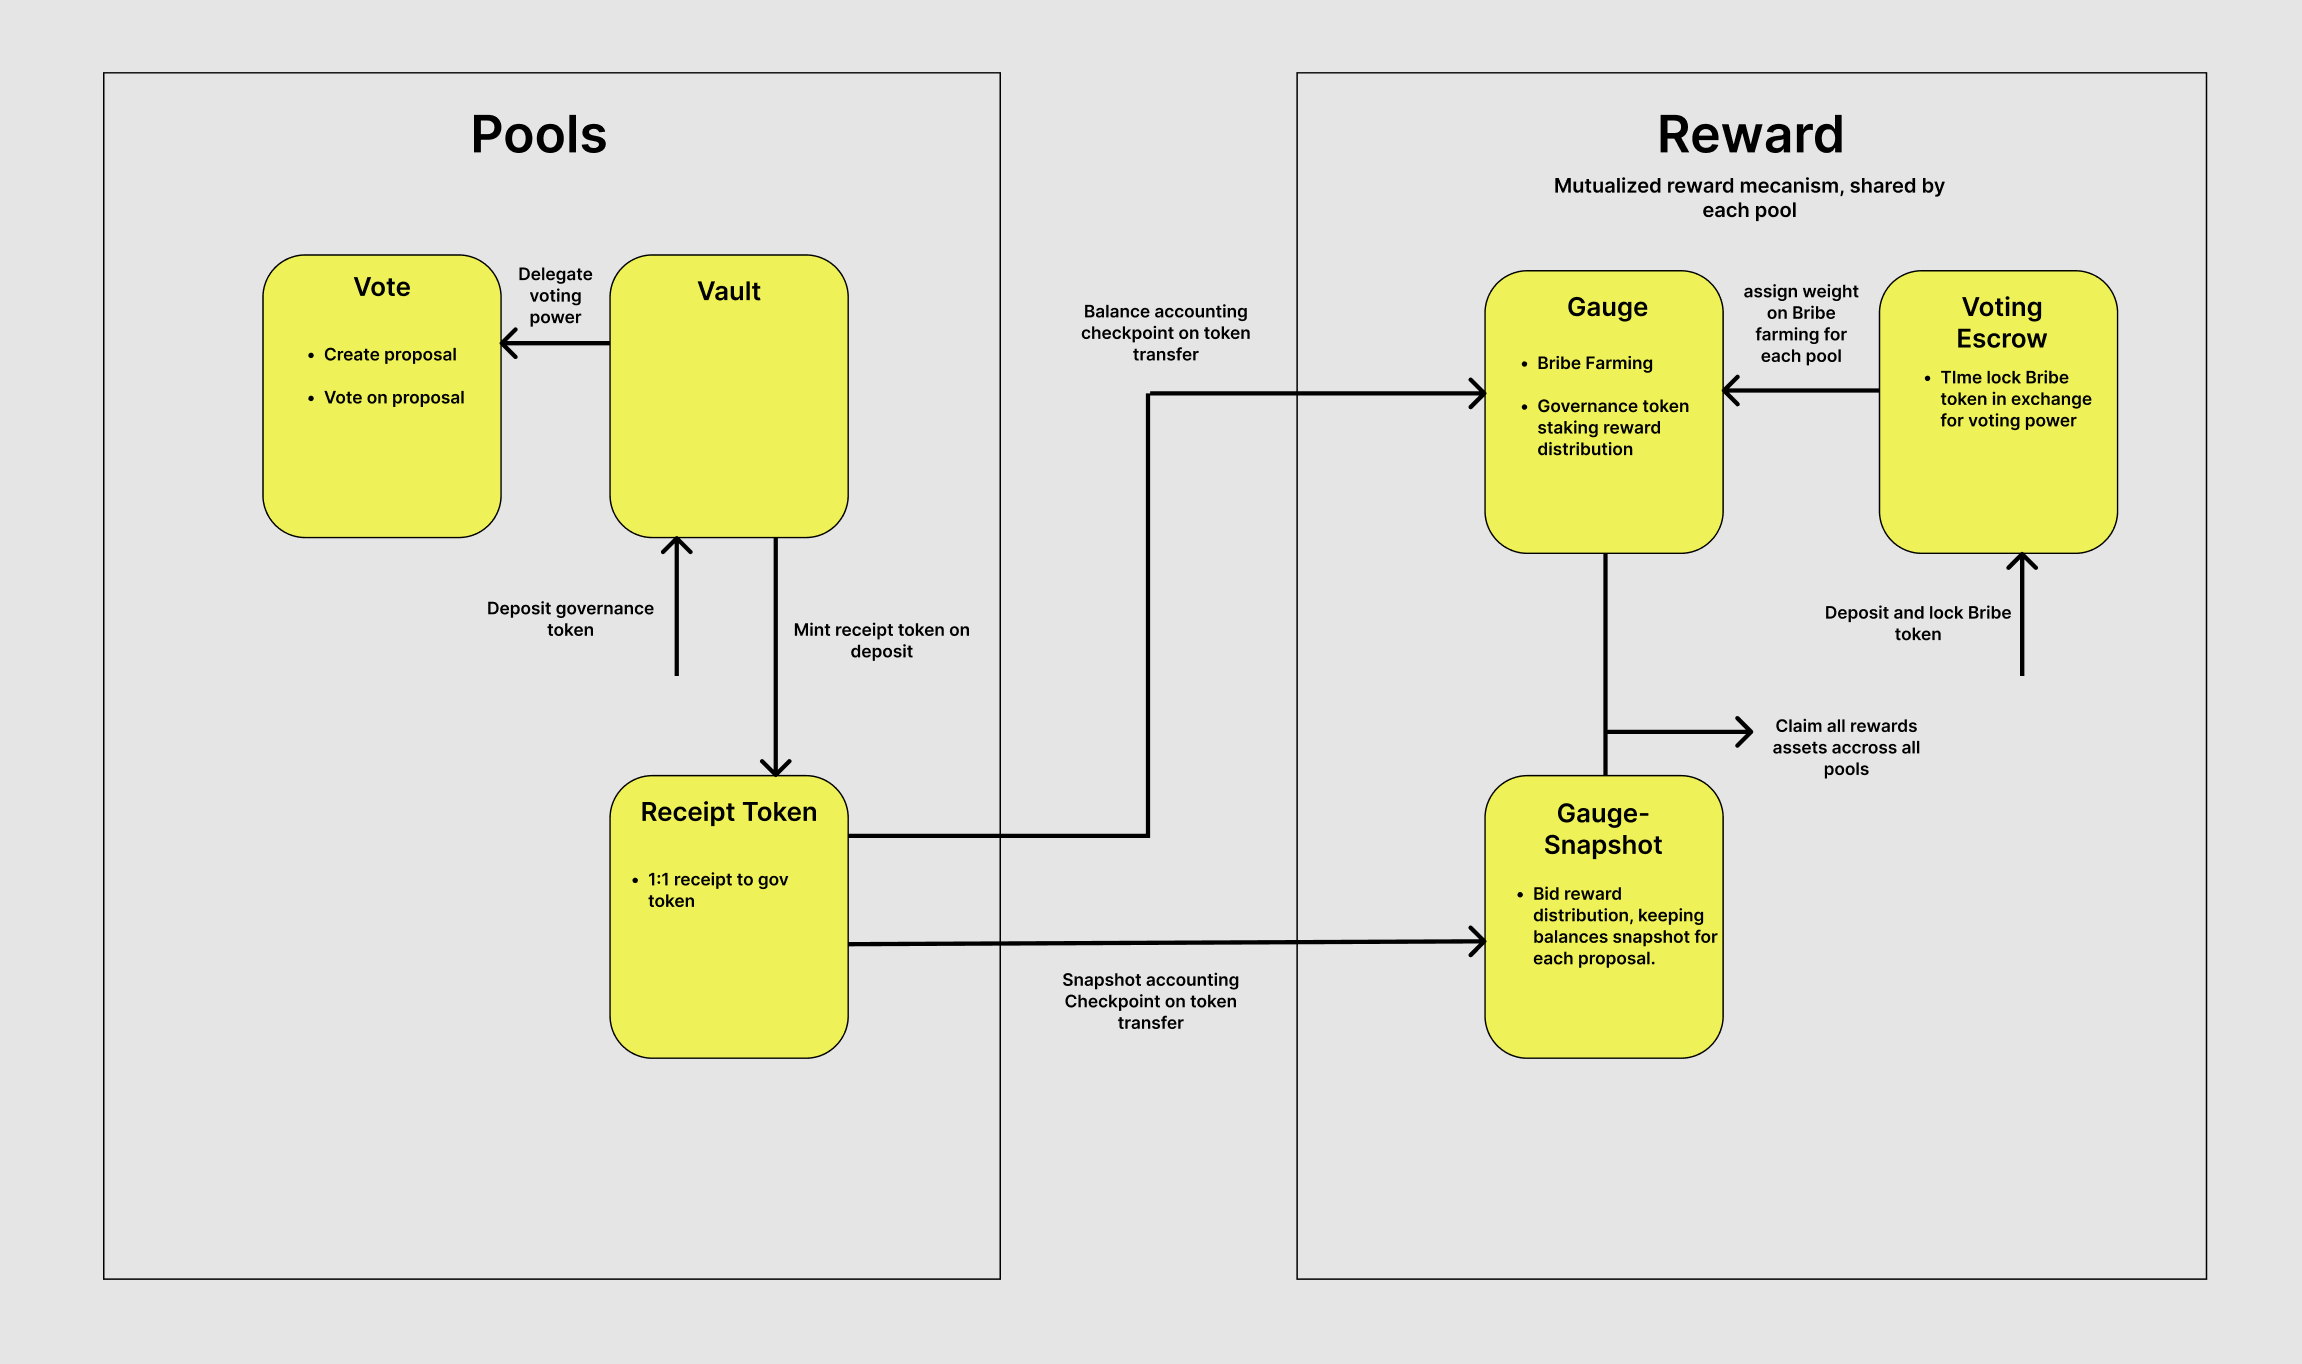
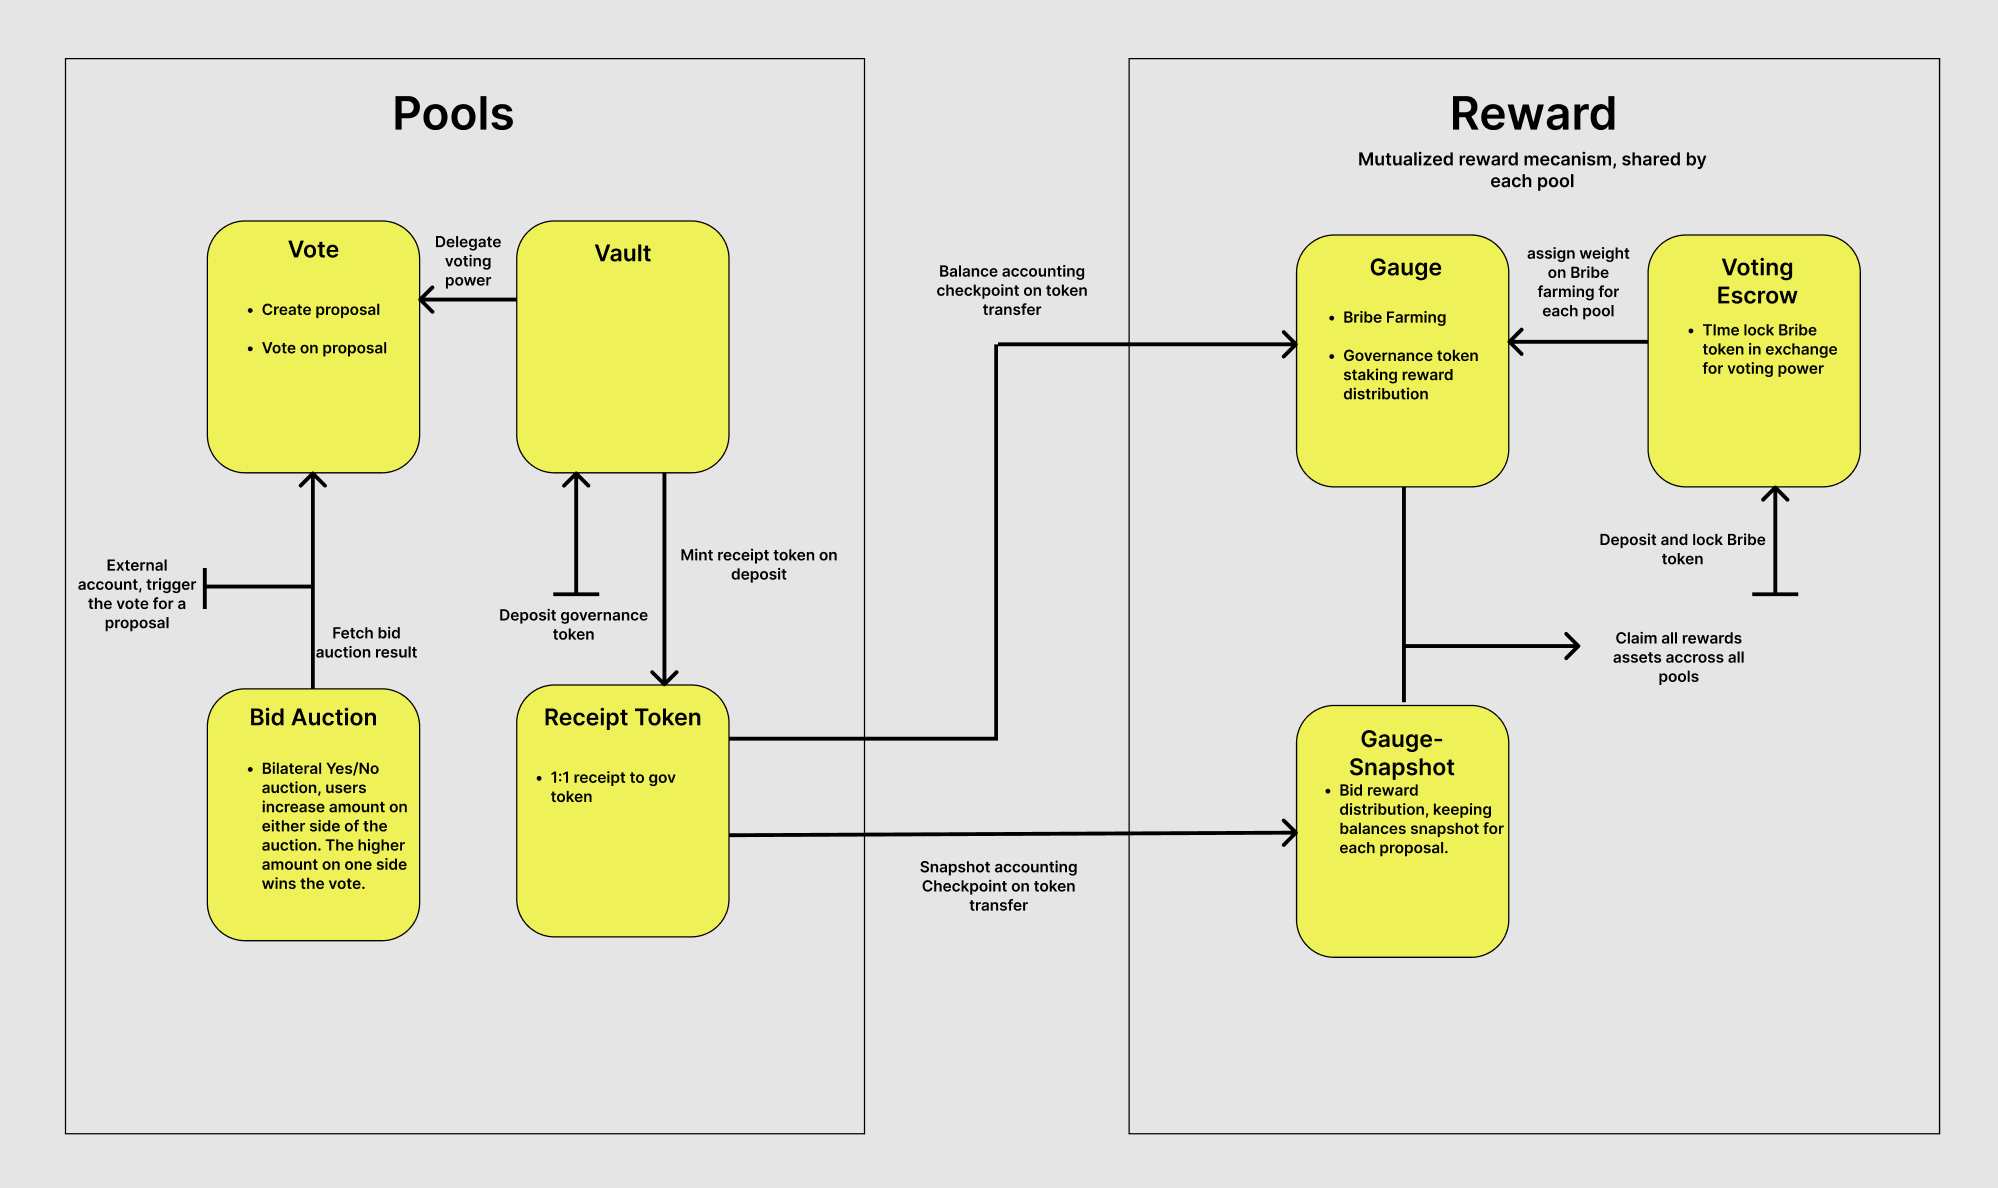
pots documentation

diff --git a/docs/pots.md b/docs/pots.md
@@ -1,0 +1,28 @@
+### Bribe pots
+
+Bribe pots is a generalized incentive mecanism. Pots are designed to incentivize any action taken on-chain.
+
+## Pots v1 features
+
+- One pots Factory create one pots per protocol, referrencing each protocol by name eg "qidao"
+- Each pots created can manage multiple airdrop/incentive, listing them by id, this id is an integer.
+- Pots and incentives are not permissionless, they can only be created by an admin.
+- Pots are not free to use, fees are collected. Fees are collected if the incentive is successful when rewards are claimed, but also if the incentive is cancelled, when depositted bounty asset are withdrawn.
+- Incentive can be blocked by the admin, when an incentive is blocked, depositors are refunded.
+- Incentive needs a minimum amount deposited to be created.
+- All Incentive under one pot have the same lifetime, no matter the incentive. So each incentive under qiDao will be created for the same amount of time, no matter the nature of the incentive.
+- Merkle proof are updated by an admin, when the incentive lifetime has expired.
+- Each alligible account for an incentive has 30 days to claims the bounty rewards. After which bounty is blocked and can only be claimed by depositors.
+- Each incentive can have multiple incentivizers but only one bounty asset, ie one incentive created can have its bounty amount increased by different accounts, however the token used for this bounty is unique and shared by all incentive in the same pots (qidao pots will always use the same bid asset, for all its incentive).
+- Each incentive can support an infinite number of outputs, output are caracterized by integers, eg for a bilateral proposal, output 0 is yay, output 1 is nay.
+
+## Pots v2 features
+
+- One pots factory create one pots per smart contract, referrencing each smart contract by its address.
+- Each pots created is linked to one smart contract address, multiple different incentives can be created for one SC. If a pot target AaveGovernance SC, we can create incentive for each proposal and for each proposal output. So one pot is basically a list of incentives attached to one smart contract.
+- The conditions to trigger an incentive are uploaded to ipfs in JSON format. So each incentive needs to referrence an ipfs hash. For example an incentive an a proposal for aave will have its conditions saved in ipfs.
+- A specific format and list of conditions needs to respect a standard shared by each incentive, this standard will be designed thanks to contract ABI and events parameters.
+- One asset supported per incentive, meaning one pot (which is a list of incentives attached to one SC) can support different bid asset, while each incentive will have only one bid asset.
+- MerkleTrees are being built by bots, by reading the ipfs hash attached to each incentives and fetching the conditions from this hash. Thanks to a standard format, the bot will be able to build the merkletree autonomously with the informations stored on ipfs. Those info are immutable after the incentive creation, everything will be transparent and auditable by anyone.
+- Because each incentives are built following a standard format, and via contracts ABI, the incentive creation can be made permissionless.
+- MerkleTrees are updated to ipfs when ready, and incentive will refer that ipfs hash when rewards are ready to be dropped.

diff --git a/docs/README.md b/docs/README.md
@@ -13,11 +13,25 @@ Pools aggregate voting power from multiple stakers into one contract. That votin
 
 ### Pool Architecture
 
-![image](https://raw.githubusercontent.com/bribeprotocol/bribe-v2/main/docs/images/Pool.png?token=GHSAT0AAAAAABOWRQDXZGURKJYFPLZGMRWWYSMM3CQ)
+![image](./images/pool.png)
 
 ## Pots
 
-The goal with pots is to make it easy for anyone to incentivize any actions that needs to be taken on-chain.
+Bribe is offering an incentive marketplace in the form of pots.
+
+Pots are airdrop that are built out of users behaviour.
+
+For example: A new protocol want to incentivize new users to try it.
+
+- The team will usually promise an airdrop, the condition for the airdrop are unknown, when is the snapshot happening? how are shares distributed? What will be the total amount?
+- That team could instead submit an incentive on the Bribe pots marketplace, defining the airdrop conditions.
+- It will enter the SC address that needs incentives, ABI is fetched from that contract, it will then select an event from that ABI and describe which parameters needs to be completed to be elligible for this airdrop.
+- Enter a description for this airdrop, the total amount of token to be distributed and an expiration date after which the airdrop will be built and distributed by Bribe bots.
+- Eventually exclude some addresses.
+
+Such implementation is powerful because it opens permissionless incentives both for instigator and instigated.
+
+Because Bribe pots is designed as a marketplace, anyone can visit the pots page and see where he is elligible for rewards. An account can claim its rewards all at once, receiving a range of token.
 
 ### Features
 

diff --git a/docs/_sidebar.md b/docs/_sidebar.md
@@ -1,6 +1,6 @@
 - [What is Bribe ?](README.md)
 
-- [Overview](Overview.md)
+- [Pots overview](pots.md)
 
 - Guide
 
